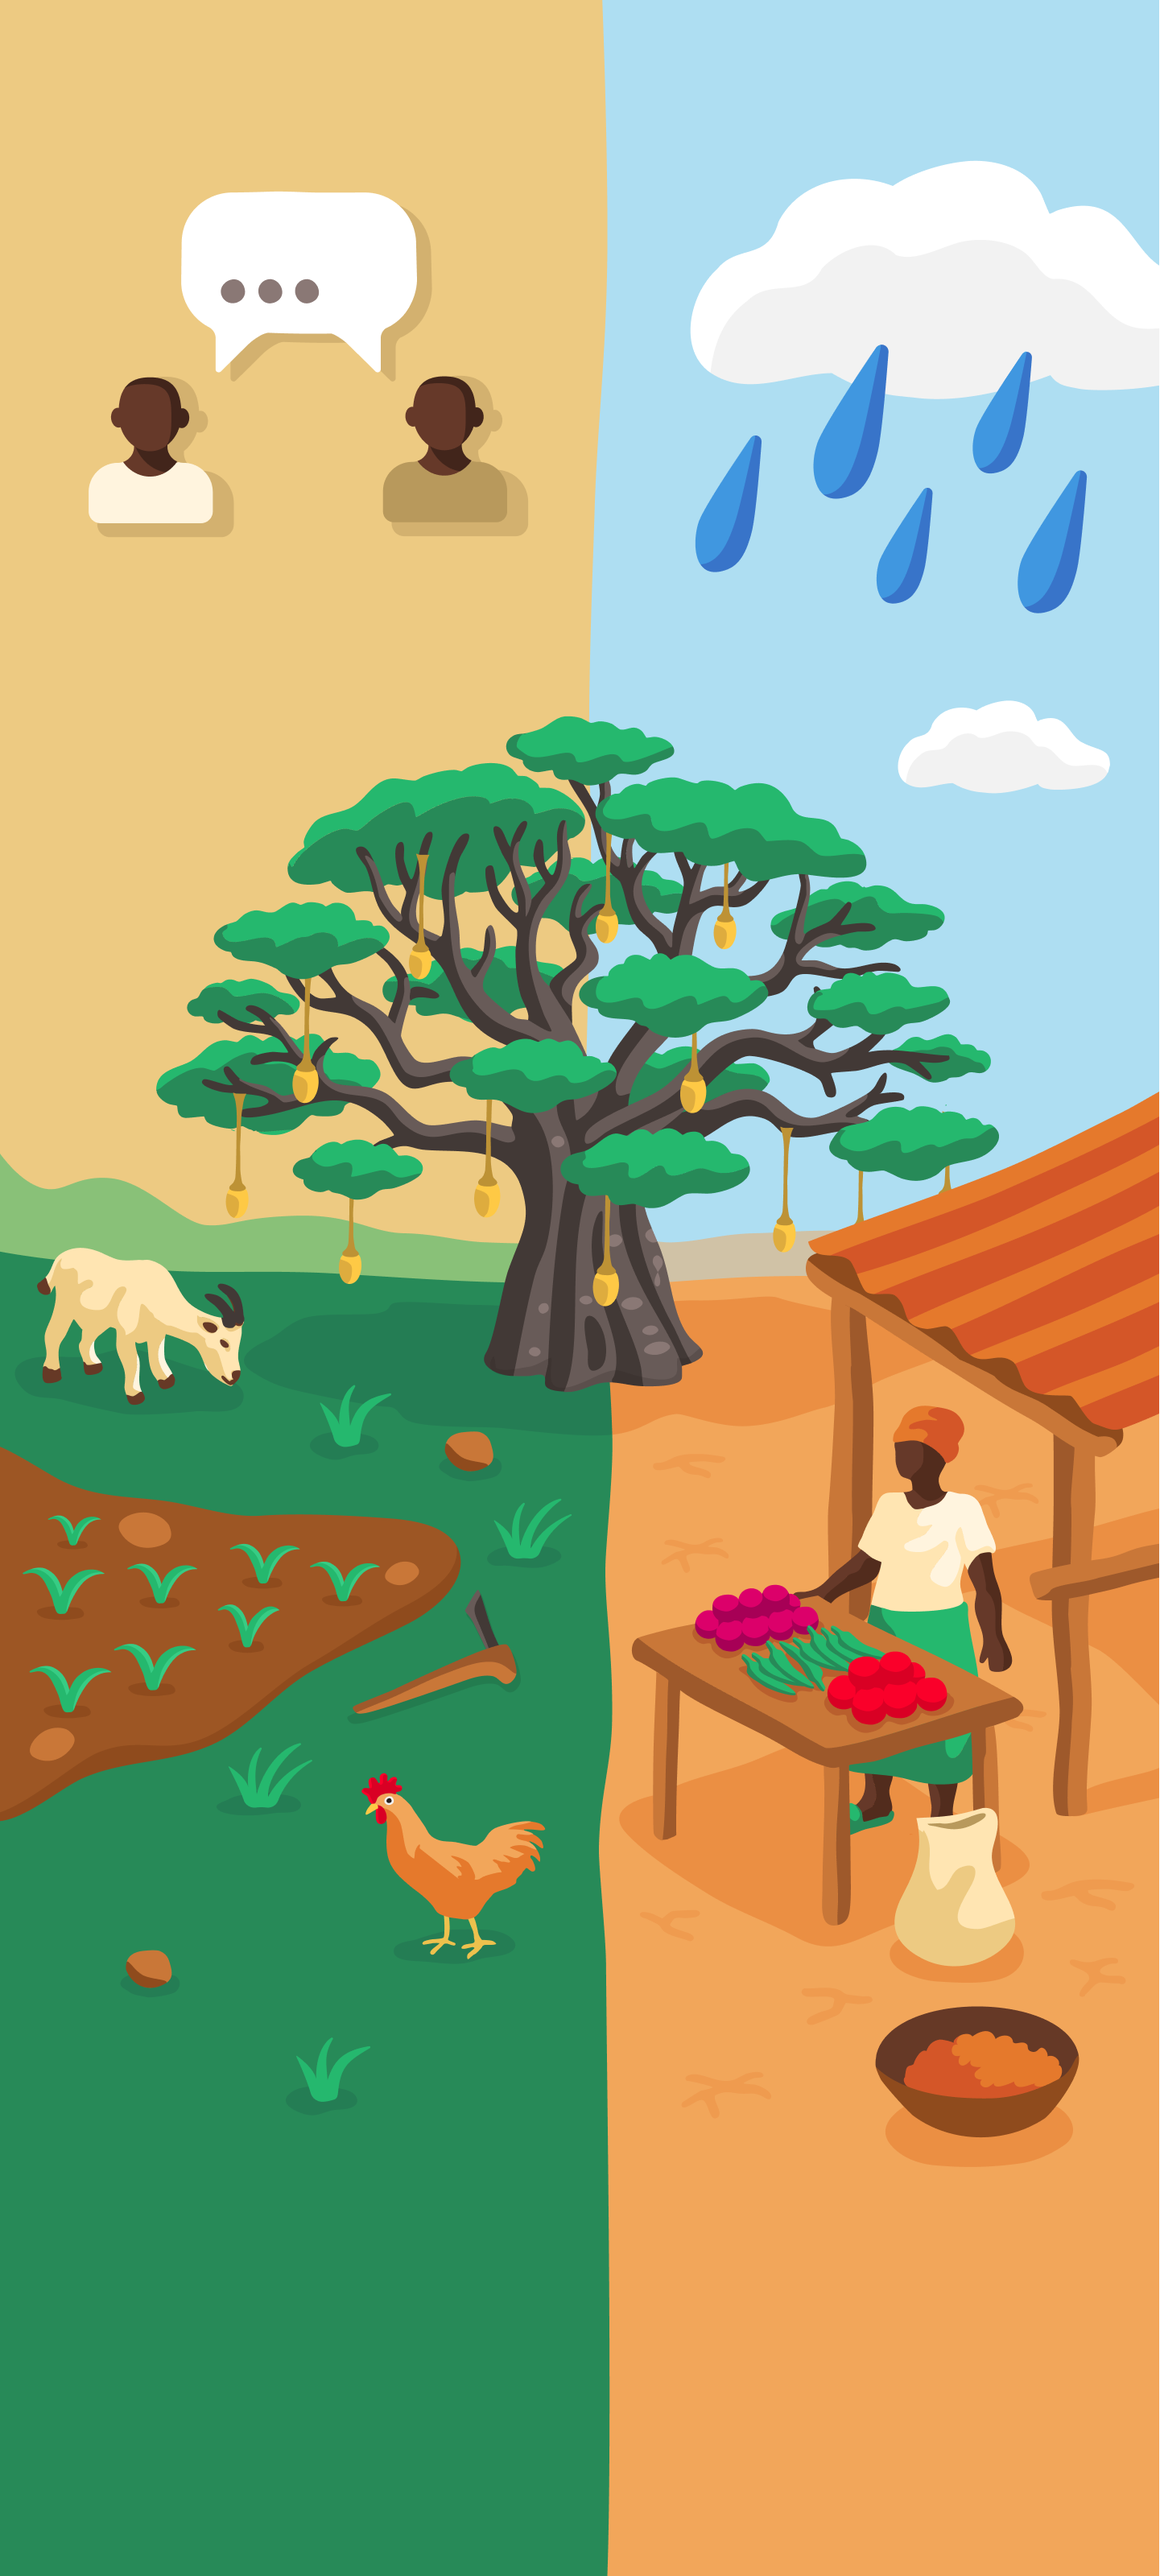
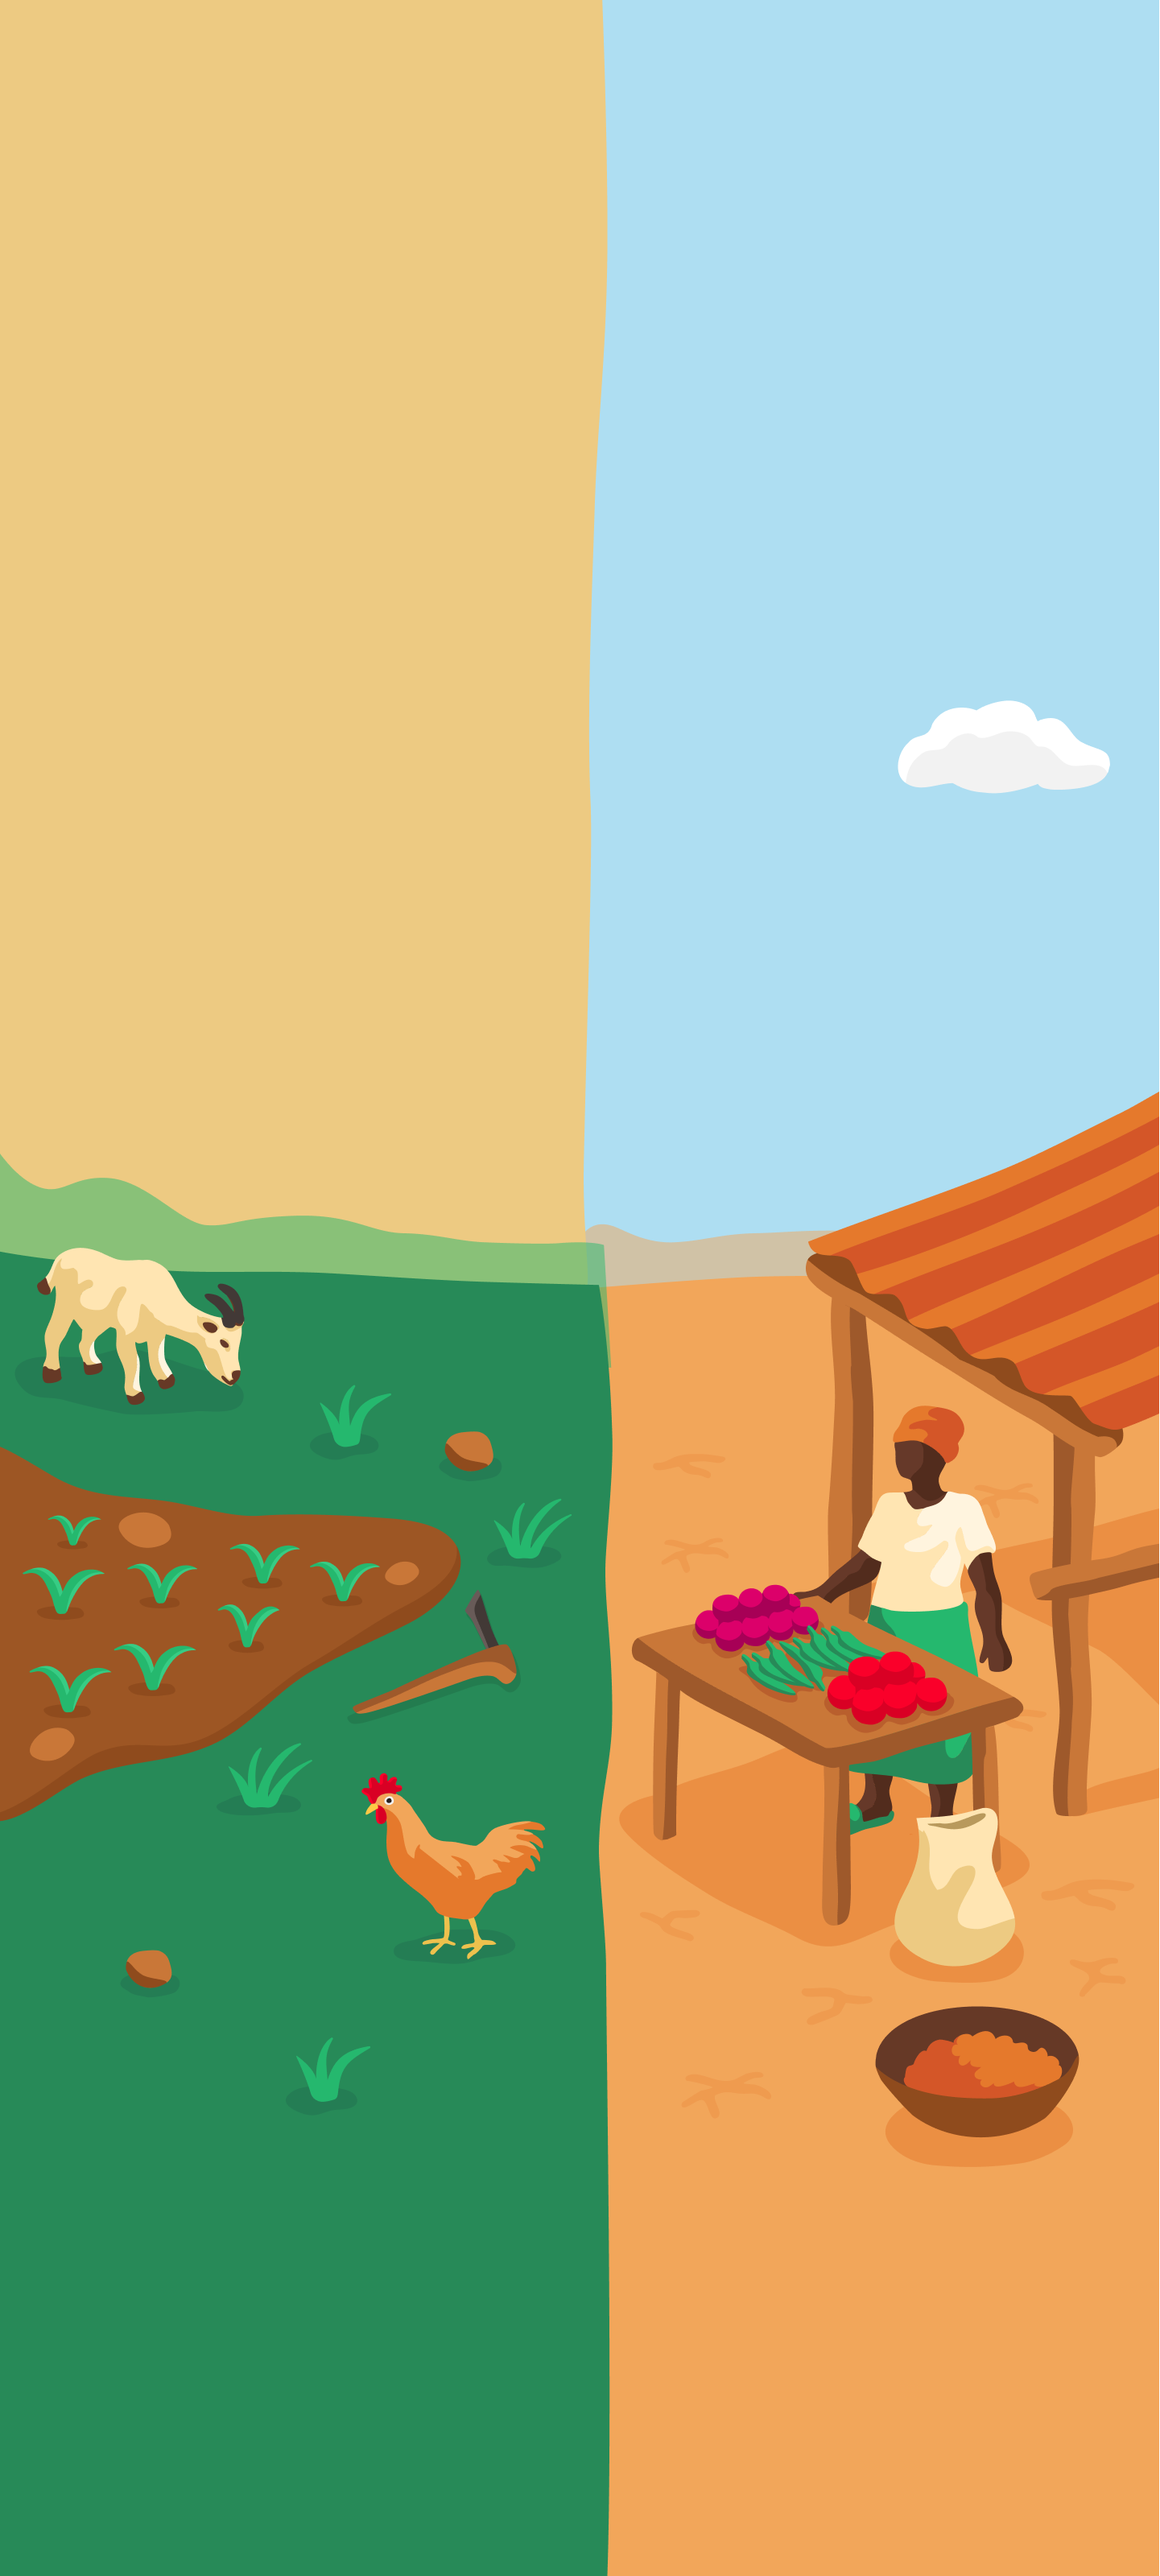
isolates start screen animated elements

Changed region(s): [[0.1249, 0.2812, 0.8744, 0.5625], [0.5933, 0.0625, 0.9993, 0.25], [0.0625, 0.0625, 0.4684, 0.2188]]

diff --git a/apps/minodu-frontend/src/routes/+page.svelte b/apps/minodu-frontend/src/routes/+page.svelte
@@ -1,6 +1,9 @@
 <script lang="ts">
 	import tileImageMobile from '$lib/assets/startscreen_background_mobile.png';
 	import tileImageTablet from '$lib/assets/startscreen_background_tablet.png';
+	import baobapImage from '$lib/assets/baobap.png';
+	import chatImage from '$lib/assets/startscreen_chat.png';
+	import cloudImage from '$lib/assets/startscreen_cloud.png';
 
 	let { children } = $props();
 </script>
@@ -17,7 +20,6 @@
 	#tile-image-container img {
 		width: 100%;
 		height: 100%;
-		max-width: 1000px;
 		object-fit: cover;
 		display: none;
 		margin: 0 auto;
@@ -55,10 +57,50 @@
 		opacity: 0;
     }
 
+	#tree {
+		position: absolute;
+		top: 44%;
+		left: 50%;
+		transform: translate(-50%, -50%);
+	}
+
+	#tree img {
+		width: 50vw;
+		height: 30vh;
+		min-width: 300px;
+		object-fit: contain;
+	}
+
+	#cloud {
+		position: absolute;
+		top: 5%;
+    	right: 10%;
+	}
+
+	#cloud img {
+		width: 25vw;
+		height: 20vh;
+		min-width: 130px;
+		object-fit: contain;
+	}
+
+	#chat {
+		position: absolute;
+		top: 9%;
+    	left: 12%;
+	}
+
+	#chat img {
+		width: 25vw;
+		height: 20vh;
+		min-width: 130px;
+		object-fit: contain;
+	}
+
 </style>
 
 <div>
-	<div id="tile-image-container">
+	<div id="tile-image-container" class="content-width">
 		<img 
 			src={tileImageMobile} 
 			alt="4 minodu tiles showing different apps"
@@ -67,6 +109,21 @@
 			src={tileImageTablet} 
 			alt="4 minodu tiles showing different apps"
 			class="responsive-image tablet"/>
+	</div>
+	<div id="cloud">
+		<img
+			src={cloudImage}
+			alt="a rainy cloud in the sky"/>
+	</div>
+	<div id="chat">
+		<img
+			src={chatImage}
+			alt="two people and a speech bubble in the sky"/>
+	</div>
+	<div id="tree">
+		<img
+			src={baobapImage}
+			alt="a baobap tree"/>
 	</div>
 	<div class="grid-link-container">
 		<a href="/forum" class="grid-link">Forum</a>

diff --git a/apps/minodu-frontend/src/routes/+layout.svelte b/apps/minodu-frontend/src/routes/+layout.svelte
@@ -16,7 +16,7 @@
 </svelte:head>
 
 <div class="app-container">
-	<div id="content">
+	<div id="content" class="content-width">
 		{@render children?.()}
 	</div>
 	<div id="footer">
@@ -39,10 +39,13 @@
 		height: 100px;
 	}
 
+	#content {
+		max-width: 1100px;
+	}
+
 	.menu-bar {
 		display: flex;
 		height: 100%;
-		max-width: 600px;
 		background-color: var(--bg-color-light);
 		margin: 0 auto;
 		flex-direction: row;
@@ -52,16 +55,17 @@
 		padding: 0 var(--small-padding);
 	}
 
-	@media screen and (min-width: 600px) {
+	@media screen and (min-width: 550px) {
 		.menu-bar {
 			border-radius: var(--border-radius) var(--border-radius);
 			margin-top: -20px;
+			max-width: 450px;
 		}
 	}
 
 	:global(:root) {
 		--small-padding: 10px;
-		--bg-color-light: #C2B4B0;
+		--bg-color-light: #E2E2E2;
 		--border-radius: 20px;
 	}
 
@@ -107,5 +111,10 @@
 
 	:global(.paragraph:not(:first-of-type)) {
 		margin-top: 10px;
+	}
+
+	:global(.content-width) {
+		max-width: 1100px;
+		margin: 0 auto;
 	}
 </style>
